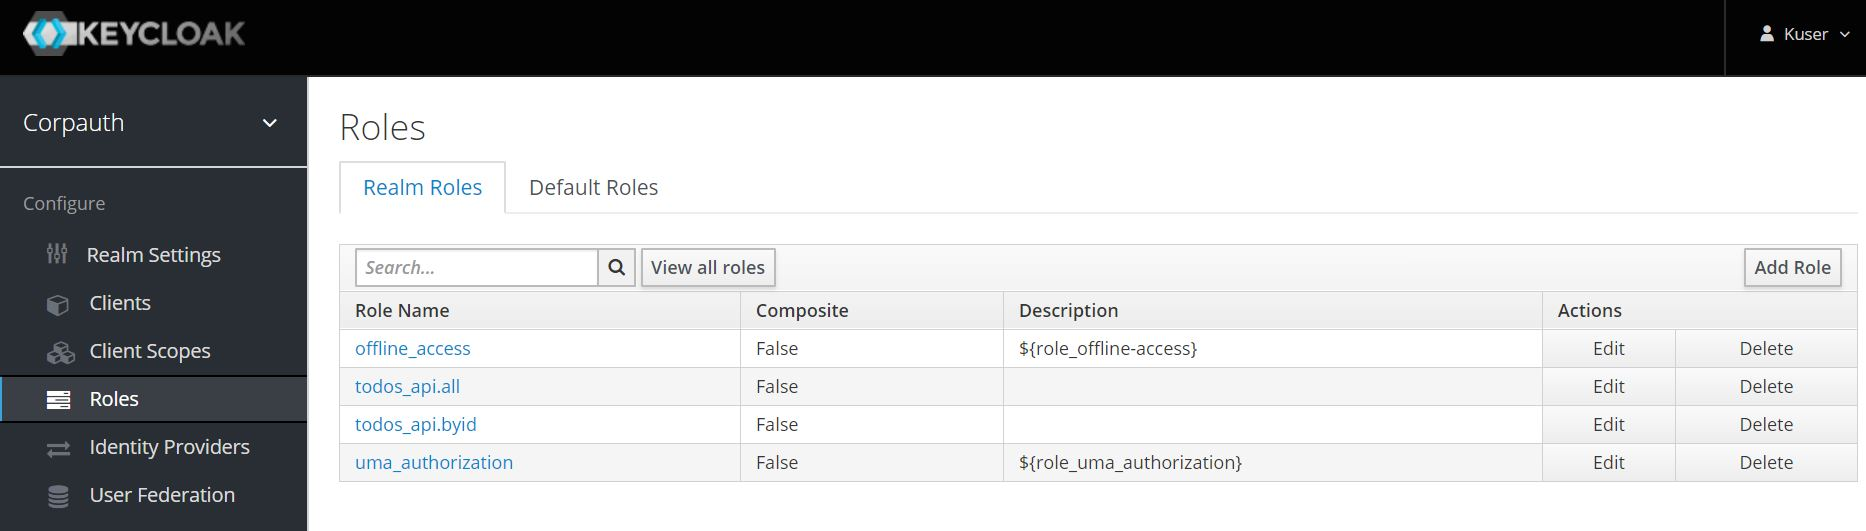
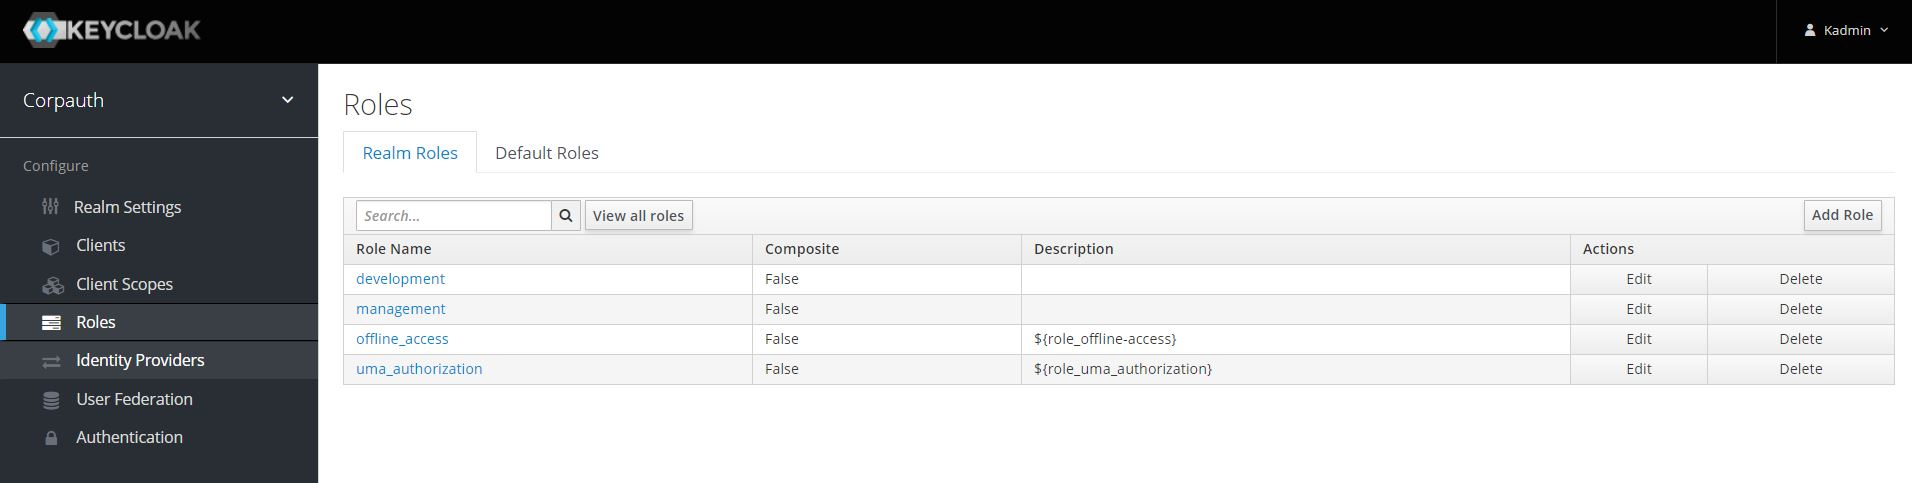
Documentation update

diff --git a/idp/README.md b/idp/README.md
@@ -62,15 +62,18 @@ After saving, we can see all the configuration options of the client:
 This project uses an LDAP server as user base and integration can be done via `User Federation` menu of Keycloak in left hand side then using `Add Provider --> ldap`. A sample configuration is as follows:
 
 ![addldap1](../doc/images/add_ldap_1.jpg)
+
 ![addldap2](../doc/images/add_ldap_2.jpg)
 
 The sample configuration enables Keycloak to use OpenLDAP server as user base with a designated synchronization policy defined under `Sync Settings`. In order to perform a force synchronization `Synchronize all users` button under that page should be used. As sample LDAP user entities contains title and photo attributes LDAP mappers with the type of `user-attribute-ldap-mapper` should be set in Keycloak. The `Mappers` tab under the same page:
 
 ![addldap3](../doc/images/add_ldap_3.jpg)
+
 ![addldap4](../doc/images/add_ldap_4.jpg)
 
 These mappings should also done for client created in order to retrieve these user attributes via `/userinfo` endpoint. This can be done under `Mappers` tab using `Create` button on relevant client definition page:  
 ![userinfo1](../doc/images/userinfo_1.jpg)
+
 ![userinfo2](../doc/images/userinfo_2.jpg)
 
 ## Roles
@@ -81,6 +84,13 @@ In order to use LDAP as a base for role definitions a new LDAP mapper with the t
 
 ![addldaproles](../doc/images/add_ldap_roles.jpg)
 
+Clicking ``Sync LDAP Roles To Keycloak` adds LDAP group names as roles to Realm level role list per the sample configuration above and LDAP based user-role assignments take place:
+
+![addroles](../doc/images/add_roles.jpg)
+
+![userrole1](../doc/images/user_role_1.jpg)
+
+![userrole2](../doc/images/user_role_2.jpg)
 
 
 

diff --git a/client/auth-app/README.md b/client/auth-app/README.md
@@ -24,7 +24,7 @@ There are two different authorization service implementations per aforementioned
 * *responseType:* Response type. Needs to be set as `code` to enable PKCE with AuthZ code flow. 
 
 # Sample Screenshots
-![screenshots](/doc/images/ss.jpg)
+![screenshots](/doc/images/screenshots.jpg)
 
 # Angular Related Instructions
 
